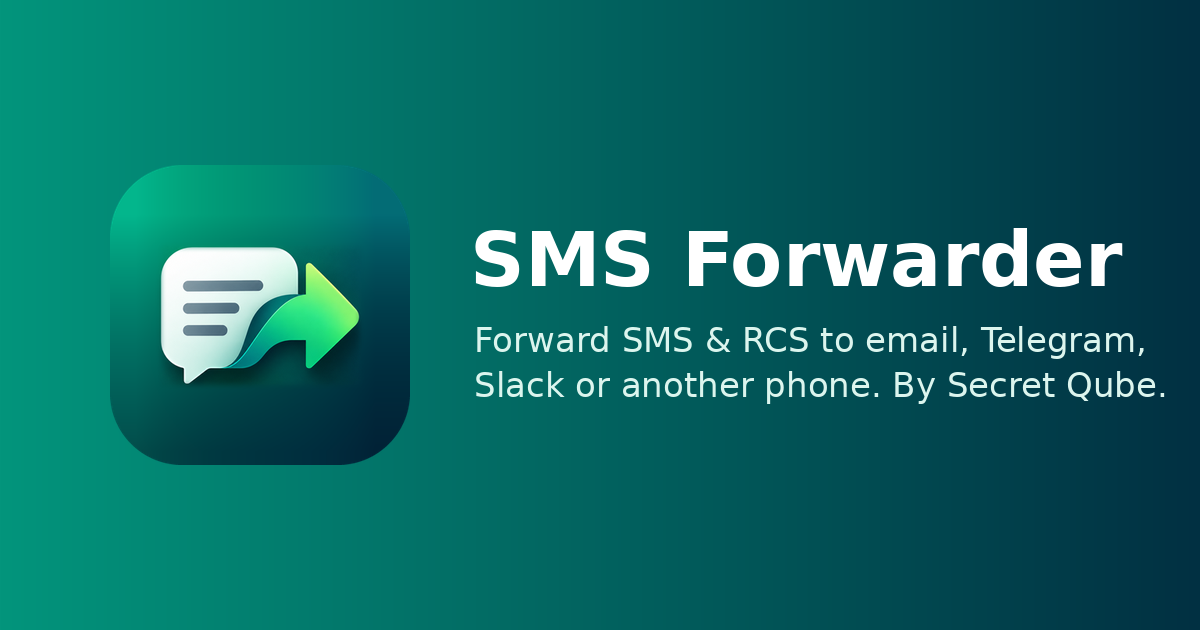
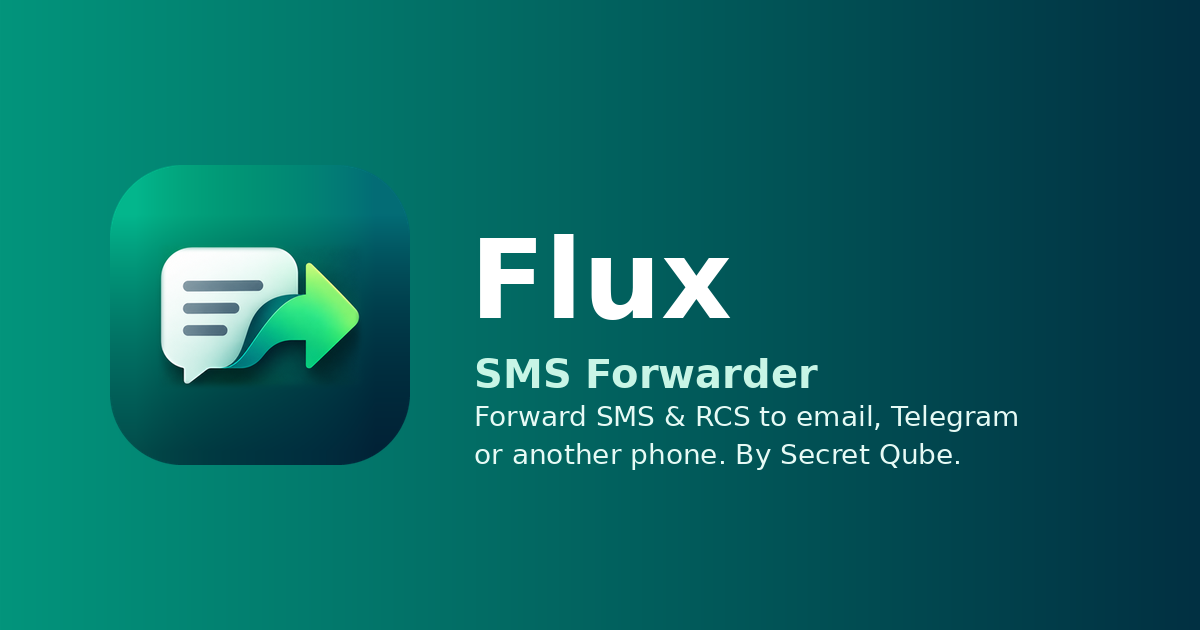
update app name

Changed region(s): [[0.37, 0.3619, 0.9867, 0.754]]

diff --git a/support.html b/support.html
@@ -3,14 +3,14 @@
 <head>
 <meta charset="utf-8">
 <meta name="viewport" content="width=device-width,initial-scale=1">
-<title>Support and data deletion, SMS Forwarder by Secret Qube</title>
-<meta name="description" content="Get help with SMS Forwarder by Secret Qube, keep forwarding running in the background, manage your subscription and delete your data.">
+<title>Support and data deletion, Flux: SMS Forwarder by Secret Qube</title>
+<meta name="description" content="Get help with Flux: SMS Forwarder by Secret Qube, keep forwarding running in the background, manage your subscription and delete your data.">
 <meta name="theme-color" content="#024E55">
 <link rel="canonical" href="https://secretqube.com/support.html">
 <link rel="icon" type="image/png" sizes="32x32" href="assets/favicon-32.png">
 <link rel="apple-touch-icon" href="assets/apple-touch-icon.png">
 <meta property="og:type" content="website">
-<meta property="og:title" content="SMS Forwarder by Secret Qube">
+<meta property="og:title" content="Flux: SMS Forwarder by Secret Qube">
 <meta property="og:description" content="Forward SMS & RCS to email, Telegram, Slack, Google Sheets or another phone, by your rules.">
 <meta property="og:image" content="https://secretqube.com/assets/og.png">
 <meta property="og:url" content="https://secretqube.com/support.html">
@@ -37,7 +37,7 @@
 <main>
 <section class="doc-hero"><div class="wrap">
   <h1><span lang="ar">الدعم وحذف البيانات</span><span lang="en">Support and data deletion</span></h1>
-  <p><span lang="ar">مساعدة في SMS Forwarder، وكيف تحذف بياناتك متى شئت.</span><span lang="en">Help with SMS Forwarder, and how to delete your data whenever you want.</span></p>
+  <p><span lang="ar">مساعدة في Flux، وكيف تحذف بياناتك متى شئت.</span><span lang="en">Help with Flux, and how to delete your data whenever you want.</span></p>
 </div></section>
 <div class="wrap doc">
   <nav class="toc" aria-label="Contents"><ol>
@@ -73,9 +73,9 @@
     </section>
     <section id="subscription">
       <h2><span lang="ar">إدارة الاشتراك</span><span lang="en">Managing your subscription</span></h2>
-      <div lang="ar"><p>الاشتراكات تُدار بالكامل عبر Google Play. لإلغاء الاشتراك أو تغييره: افتح متجر Play ← صورة حسابك ← المدفوعات والاشتراكات ← الاشتراكات ← SMS Forwarder.</p>
+      <div lang="ar"><p>الاشتراكات تُدار بالكامل عبر Google Play. لإلغاء الاشتراك أو تغييره: افتح متجر Play ← صورة حسابك ← المدفوعات والاشتراكات ← الاشتراكات ← Flux.</p>
 <p>عند انتهاء الاشتراك لا يُحذف شيء: تستمر قاعدتك الأولى بوجهتها الأولى مجاناً، وينتظر الباقي حتى تشترك مجدداً. لطلبات الاسترداد، اتبع سياسة الاسترداد في Google Play أو راسلنا.</p></div>
-      <div lang="en"><p>Subscriptions are handled entirely by Google Play. To cancel or change yours: open the Play Store, tap your profile picture, then Payments &amp; subscriptions, Subscriptions, SMS Forwarder.</p>
+      <div lang="en"><p>Subscriptions are handled entirely by Google Play. To cancel or change yours: open the Play Store, tap your profile picture, then Payments &amp; subscriptions, Subscriptions, Flux.</p>
 <p>When a subscription ends, nothing is deleted: your first rule keeps working with its first destination for free, and the rest waits until you subscribe again. For refunds, follow Google Play's refund policy or email us.</p></div>
     </section>
     <section id="delete">
@@ -83,7 +83,7 @@
       <div lang="ar"><p>لا ننشئ لك حساباً، ولا نشغّل خادماً يستقبل رسائلك أو يخزّنها. كل بياناتك (القواعد والإعدادات والسجل وبيانات دخول الوجهات) على جوالك فقط. لحذفها:</p>
 <ul>
 <li><b>من داخل التطبيق:</b> امسح السجل من شاشة السجل، واحذف القواعد التي لا تريدها.</li>
-<li><b>حذف كامل:</b> إعدادات أندرويد ← التطبيقات ← SMS Forwarder ← التخزين ← مسح البيانات، أو احذف التطبيق.</li>
+<li><b>حذف كامل:</b> إعدادات أندرويد ← التطبيقات ← Flux ← التخزين ← مسح البيانات، أو احذف التطبيق.</li>
 <li><b>نسخة Google الاحتياطية:</b> قواعدك وسجلّك وكلمات المرور ورموز البوت لا تُنسخ أبداً. قد تحفظ Google إعدادات التطبيق العامة فقط إن كان النسخ الاحتياطي مفعّلاً، ويمكنك حذفها من إعدادات Google على جوالك أو من Google Drive ← النسخ الاحتياطية.</li>
 <li><b>تاريخ التجربة:</b> يحفظ التطبيق تاريخ بدء التجربة فقط في Block Store من Google حتى لا تتكرر التجربة. لا يحتوي على أي رسالة، ويُحذف مع حذف النسخ الاحتياطية من حسابك.</li>
 <li><b>الرسائل المحوَّلة:</b> موجودة لدى الوجهة التي اخترتها (بريدك أو تيليجرام أو Slack أو غيرها)، وتُحذف من هناك.</li>
@@ -92,7 +92,7 @@
       <div lang="en"><p>We don't create an account for you, and we run no server that receives or stores your messages. All your data (rules, settings, history and destination logins) is on your phone only. To delete it:</p>
 <ul>
 <li><b>In the app:</b> clear History from the History screen, and delete the rules you no longer want.</li>
-<li><b>Everything:</b> Android Settings, Apps, SMS Forwarder, Storage, Clear data, or uninstall the app.</li>
+<li><b>Everything:</b> Android Settings, Apps, Flux, Storage, Clear data, or uninstall the app.</li>
 <li><b>Google backup:</b> your rules, history, passwords and bot tokens are never backed up. If backup is on, Google may keep only the app's general settings; you can delete them in your phone's Google settings or in Google Drive, Backups.</li>
 <li><b>Trial date:</b> the app saves only the trial start date in Google's Block Store, so the trial isn't repeated. It contains no message, and it is removed when you delete the backups in your account.</li>
 <li><b>Forwarded messages:</b> these are with the destination you chose (your email, Telegram, Slack or others), and are deleted there.</li>

diff --git a/privacy.html b/privacy.html
@@ -3,14 +3,14 @@
 <head>
 <meta charset="utf-8">
 <meta name="viewport" content="width=device-width,initial-scale=1">
-<title>Privacy Policy, SMS Forwarder by Secret Qube</title>
-<meta name="description" content="Privacy policy for SMS Forwarder by Secret Qube: what the app accesses, where your data stays, and how to delete it.">
+<title>Privacy Policy, Flux: SMS Forwarder by Secret Qube</title>
+<meta name="description" content="Privacy policy for Flux: SMS Forwarder by Secret Qube: what the app accesses, where your data stays, and how to delete it.">
 <meta name="theme-color" content="#024E55">
 <link rel="canonical" href="https://secretqube.com/privacy.html">
 <link rel="icon" type="image/png" sizes="32x32" href="assets/favicon-32.png">
 <link rel="apple-touch-icon" href="assets/apple-touch-icon.png">
 <meta property="og:type" content="website">
-<meta property="og:title" content="SMS Forwarder by Secret Qube">
+<meta property="og:title" content="Flux: SMS Forwarder by Secret Qube">
 <meta property="og:description" content="Forward SMS & RCS to email, Telegram, Slack, Google Sheets or another phone, by your rules.">
 <meta property="og:image" content="https://secretqube.com/assets/og.png">
 <meta property="og:url" content="https://secretqube.com/privacy.html">
@@ -37,7 +37,7 @@
 <main>
 <section class="doc-hero"><div class="wrap">
   <h1><span lang="ar">سياسة الخصوصية</span><span lang="en">Privacy Policy</span></h1>
-  <p><span lang="ar">محوّل الرسائل SMS Forwarder من Secret Qube. آخر تحديث: 1&nbsp;أكتوبر&nbsp;2026.</span><span lang="en">SMS Forwarder by Secret Qube. Last updated 1 October 2026.</span></p>
+  <p><span lang="ar">تطبيق Flux من Secret Qube. آخر تحديث: 1&nbsp;أكتوبر&nbsp;2026.</span><span lang="en">Flux: SMS Forwarder by Secret Qube. Last updated 1 October 2026.</span></p>
 </div></section>
 <div class="wrap doc">
   <nav class="toc" aria-label="Contents"><ol>
@@ -63,8 +63,8 @@
   <article class="prose">
     <section id="s1">
       <h2><span lang="ar">من نحن</span><span lang="en">Who we are</span></h2>
-      <div lang="ar"><p>محوّل الرسائل SMS Forwarder من إنتاج <strong>Secret Qube</strong>، استوديو برمجيات مستقل. توضّح هذه السياسة بصراحة ما يفعله التطبيق برسائلك وبياناتك — لأن عمل التطبيق بأكمله هو التعامل مع رسائلك، فهذا يستحق إجابة مباشرة لا نصاً جاهزاً.</p></div>
-      <div lang="en"><p>SMS Forwarder is built by <strong>Secret Qube</strong>, an independent software studio. This policy explains, plainly, what the app does with your messages and your data — because the app's entire job is to handle SMS, that deserves a direct answer rather than a template.</p></div>
+      <div lang="ar"><p>تطبيق Flux من إنتاج <strong>Secret Qube</strong>، استوديو برمجيات مستقل. توضّح هذه السياسة بصراحة ما يفعله التطبيق برسائلك وبياناتك — لأن عمل التطبيق بأكمله هو التعامل مع رسائلك، فهذا يستحق إجابة مباشرة لا نصاً جاهزاً.</p></div>
+      <div lang="en"><p>Flux is built by <strong>Secret Qube</strong>, an independent software studio. This policy explains, plainly, what the app does with your messages and your data — because the app's entire job is to handle SMS, that deserves a direct answer rather than a template.</p></div>
     </section>
     <section id="s2">
       <h2><span lang="ar">ما الذي يصل إليه التطبيق ولماذا</span><span lang="en">What the app accesses, and why</span></h2>
@@ -124,7 +124,7 @@
       <h2><span lang="ar">البريد الإلكتروني و Gmail</span><span lang="en">Email and Gmail</span></h2>
       <div lang="ar"><p>إذا اخترت «استخدام Gmail» لإرسال البريد، يطلب التطبيق من جوجل صلاحية <strong>إرسال فقط</strong> (<code>gmail.send</code>). لا يمكنه قراءة صندوق بريدك أو البحث فيه أو حذف شيء منه أو الوصول إليه بأي شكل آخر — يمكنه فقط تأليف وإرسال تلك الرسالة المحوّلة الواحدة. يمكنك إلغاء هذه الصلاحية في أي وقت من إعدادات الأمان في حساب Google، تحت «وصول تطبيقات الطرف الثالث». ويلتزم استخدام التطبيق للمعلومات التي يتلقاها من واجهات Google البرمجية بسياسة بيانات مستخدمي خدمات Google API، بما فيها متطلبات الاستخدام المحدود (Limited Use).</p>
     <p>إذا اخترت «استخدام SMTP» بدلاً من ذلك، يُستخدم بريدك وكلمة مرورك فقط للاتصال بخادم البريد الذي تحدّده (Gmail أو Yahoo أو أي مزوّد آخر)، ويُخزَّنان مشفّرين على جهازك كما ذُكر أعلاه.</p></div>
-      <div lang="en"><p>If you choose "Use Gmail" for email delivery, the app requests a Google <strong>send-only</strong> permission (<code>gmail.send</code>). It cannot read, search, delete, or otherwise access your inbox — it can only compose and send the one forwarded message. You can revoke this at any time from your Google Account's Security settings, under Third-party access. SMS Forwarder's use of information received from Google APIs adheres to the Google API Services User Data Policy, including the Limited Use requirements.</p>
+      <div lang="en"><p>If you choose "Use Gmail" for email delivery, the app requests a Google <strong>send-only</strong> permission (<code>gmail.send</code>). It cannot read, search, delete, or otherwise access your inbox — it can only compose and send the one forwarded message. You can revoke this at any time from your Google Account's Security settings, under Third-party access. Flux's use of information received from Google APIs adheres to the Google API Services User Data Policy, including the Limited Use requirements.</p>
     <p>If you choose "Use SMTP" instead, your email address and password are used only to connect to the mail server you specify (Gmail, Yahoo, or any provider), and are stored encrypted on your device as described above.</p></div>
     </section>
     <section id="s7">

diff --git a/index.html b/index.html
@@ -3,24 +3,24 @@
 <head>
 <meta charset="utf-8">
 <meta name="viewport" content="width=device-width,initial-scale=1">
-<title>SMS Forwarder by Secret Qube</title>
+<title>Flux: SMS Forwarder by Secret Qube</title>
 <meta name="description" content="SMS & RCS Forwarder for Android: forward incoming messages to your email, Telegram or another phone by your own rules, straight from your phone. Slack, Teams and Google Sheets on Business. By Secret Qube.">
 <meta name="theme-color" content="#024E55">
 <link rel="canonical" href="https://secretqube.com/">
 <link rel="icon" type="image/png" sizes="32x32" href="assets/favicon-32.png">
 <link rel="apple-touch-icon" href="assets/apple-touch-icon.png">
 <meta property="og:type" content="website">
-<meta property="og:title" content="SMS Forwarder by Secret Qube">
+<meta property="og:title" content="Flux: SMS Forwarder by Secret Qube">
 <meta property="og:description" content="Forward SMS & RCS to your email, Telegram or another phone, by your rules. Straight from your phone, with no servers in between.">
 <meta property="og:site_name" content="Secret Qube">
 <meta property="og:locale" content="en_US">
 <meta property="og:locale:alternate" content="ar_AR">
-<meta property="og:image:alt" content="SMS Forwarder app icon with the text: Forward SMS and RCS to email, Telegram, Slack or another phone.">
+<meta property="og:image:alt" content="Flux app icon with the text: Forward SMS and RCS to email, Telegram or another phone.">
 <meta property="og:image" content="https://secretqube.com/assets/og.png">
 <meta property="og:url" content="https://secretqube.com/">
 <meta name="twitter:card" content="summary_large_image">
 <meta name="twitter:image" content="https://secretqube.com/assets/og.png">
-<script type="application/ld+json">{"@context":"https://schema.org","@type":"SoftwareApplication","name":"SMS Forwarder","operatingSystem":"Android","applicationCategory":"UtilitiesApplication","description":"Forward incoming SMS and RCS to email, Telegram, another phone or team apps, by your own rules, straight from your phone.","inLanguage":["en","ar"],"offers":{"@type":"Offer","price":"0","priceCurrency":"USD","description":"Free plan; Pro and Business subscriptions through Google Play"},"publisher":{"@type":"Organization","name":"Secret Qube","url":"https://secretqube.com/","email":"support@secretqube.com","address":{"@type":"PostalAddress","addressLocality":"Muscat","addressCountry":"OM"}}}</script>
+<script type="application/ld+json">{"@context":"https://schema.org","@type":"SoftwareApplication","name":"Flux: SMS Forwarder","operatingSystem":"Android","applicationCategory":"UtilitiesApplication","description":"Forward incoming SMS and RCS to email, Telegram, another phone or team apps, by your own rules, straight from your phone.","inLanguage":["en","ar"],"offers":{"@type":"Offer","price":"0","priceCurrency":"USD","description":"Free plan; Pro and Business subscriptions through Google Play"},"publisher":{"@type":"Organization","name":"Secret Qube","url":"https://secretqube.com/","email":"support@secretqube.com","address":{"@type":"PostalAddress","addressLocality":"Muscat","addressCountry":"OM"}}}</script>
 <link rel="preconnect" href="https://fonts.googleapis.com">
 <link rel="preconnect" href="https://fonts.gstatic.com" crossorigin>
 <link href="https://fonts.googleapis.com/css2?family=Readex+Pro:wght@300..700&display=swap" rel="stylesheet">
@@ -61,7 +61,7 @@
 <section class="hero" aria-labelledby="hero-title">
   <div class="wrap">
     <div>
-      <span class="app-tag"><img src="assets/app-icon.png" alt="" width="40" height="40"><span lang="ar">محوّل الرسائل SMS Forwarder</span><span lang="en">SMS Forwarder for Android</span></span>
+      <span class="app-tag"><img src="assets/app-icon.png" alt="" width="40" height="40"><span lang="ar">Flux، محوّل الرسائل</span><span lang="en">Flux SMS Forwarder for Android</span></span>
       <h1 id="hero-title"><span lang="ar">رسالة واحدة.<br><em>كل الأماكن المهمة.</em></span><span lang="en">One message.<br><em>All the right places.</em></span></h1>
       <p class="lede"><span lang="ar">حوّل رسائل SMS وRCS إلى بريدك أو تيليجرام أو رقم آخر، بقواعد تضعها أنت، مباشرة من جوالك. ومع خطة Business إلى Slack أو Teams أو Google Sheets أيضًا.</span><span lang="en">Forward SMS and RCS to your email, Telegram or another phone, by rules you set, straight from your phone. On Business, to Slack, Teams and Google Sheets too.</span></p>
       <div class="cta-row">
@@ -139,7 +139,7 @@
       <figure class="shot">
         <div class="phone" aria-hidden="true"><div class="scr">
           <div class="m-head">
-            <div class="t"><img src="assets/app-icon.png" alt=""><span lang="ar">محوّل الرسائل</span><span lang="en">SMS Forwarder</span></div>
+            <div class="t"><img src="assets/app-icon.png" alt=""><span lang="ar">Flux</span><span lang="en">Flux</span></div>
             <div class="m-status"><div><b><span lang="ar">التحويل يعمل</span><span lang="en">Forwarding is running</span></b><span><span lang="ar">آخر رسالة محوّلة قبل دقيقتين</span><span lang="en">Last message forwarded 2 min ago</span></span></div><span class="m-switch"></span></div>
           </div>
           <div class="m-body">

diff --git a/style.css b/style.css
@@ -1,4 +1,4 @@
-/* Secret Qube — site styles. Palette taken from the SMS Forwarder app theme and the Secret Qube mark. */
+/* Secret Qube — site styles. Palette taken from the Flux app theme and the Secret Qube mark. */
 :root{
   --paper:#F3F8F6; --surface:#FFFFFF; --ink:#0D2129; --muted:#50656E; --line:#DCE6E3; --line-soft:#E9F1EE;
   --accent:#04735F; --accent-soft:#D5F3E8; --emerald:#03957C; --teal:#02796B; --deep:#024E55; --navy:#013042;
